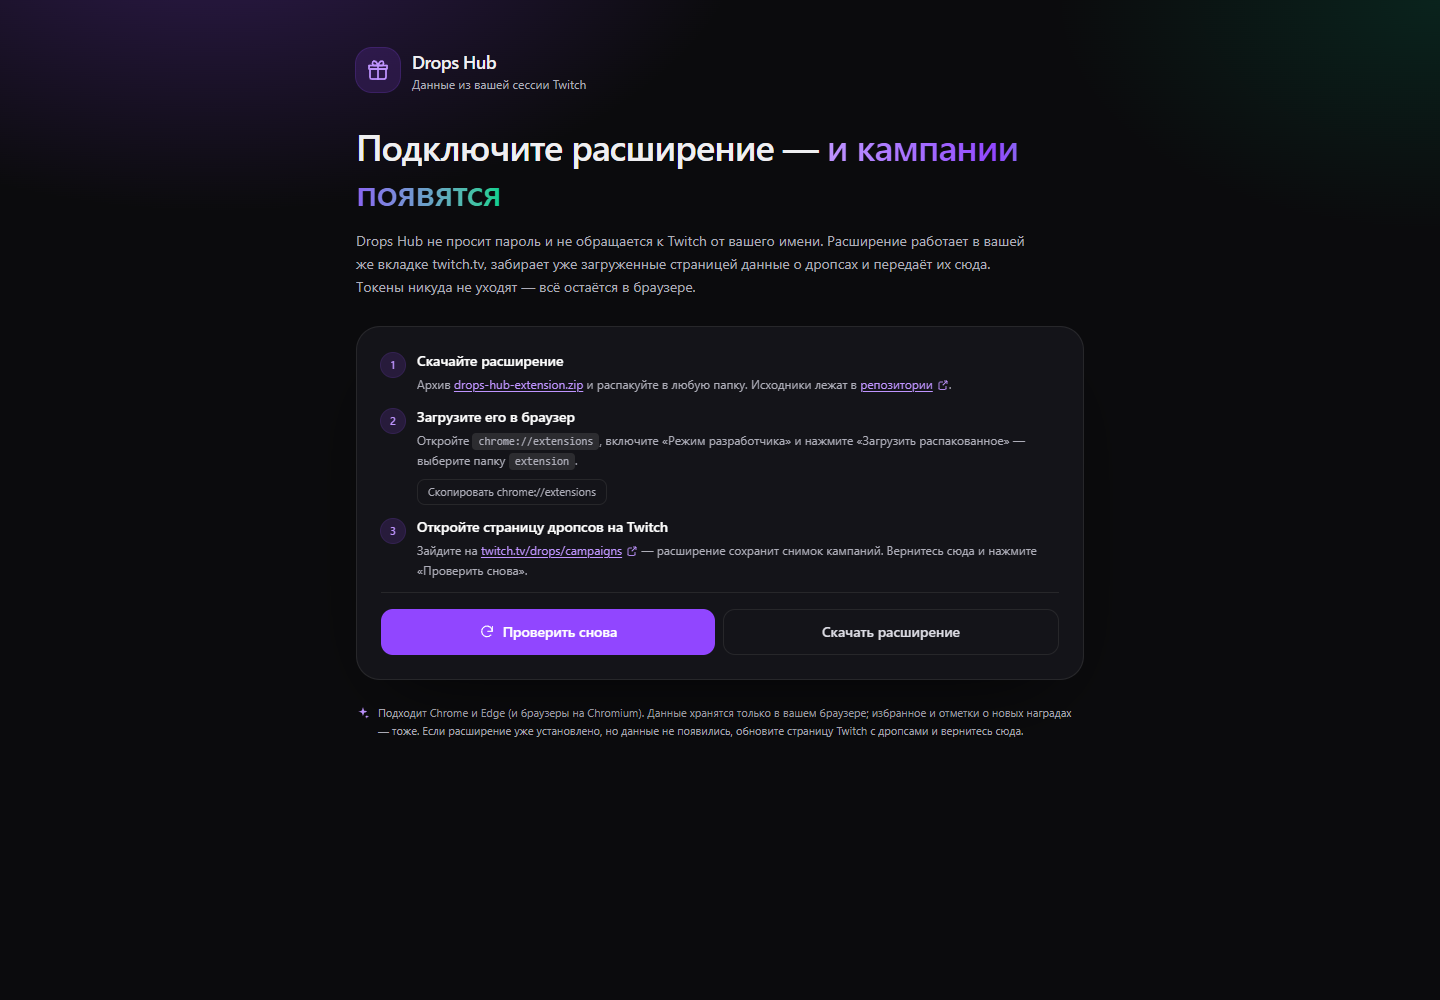
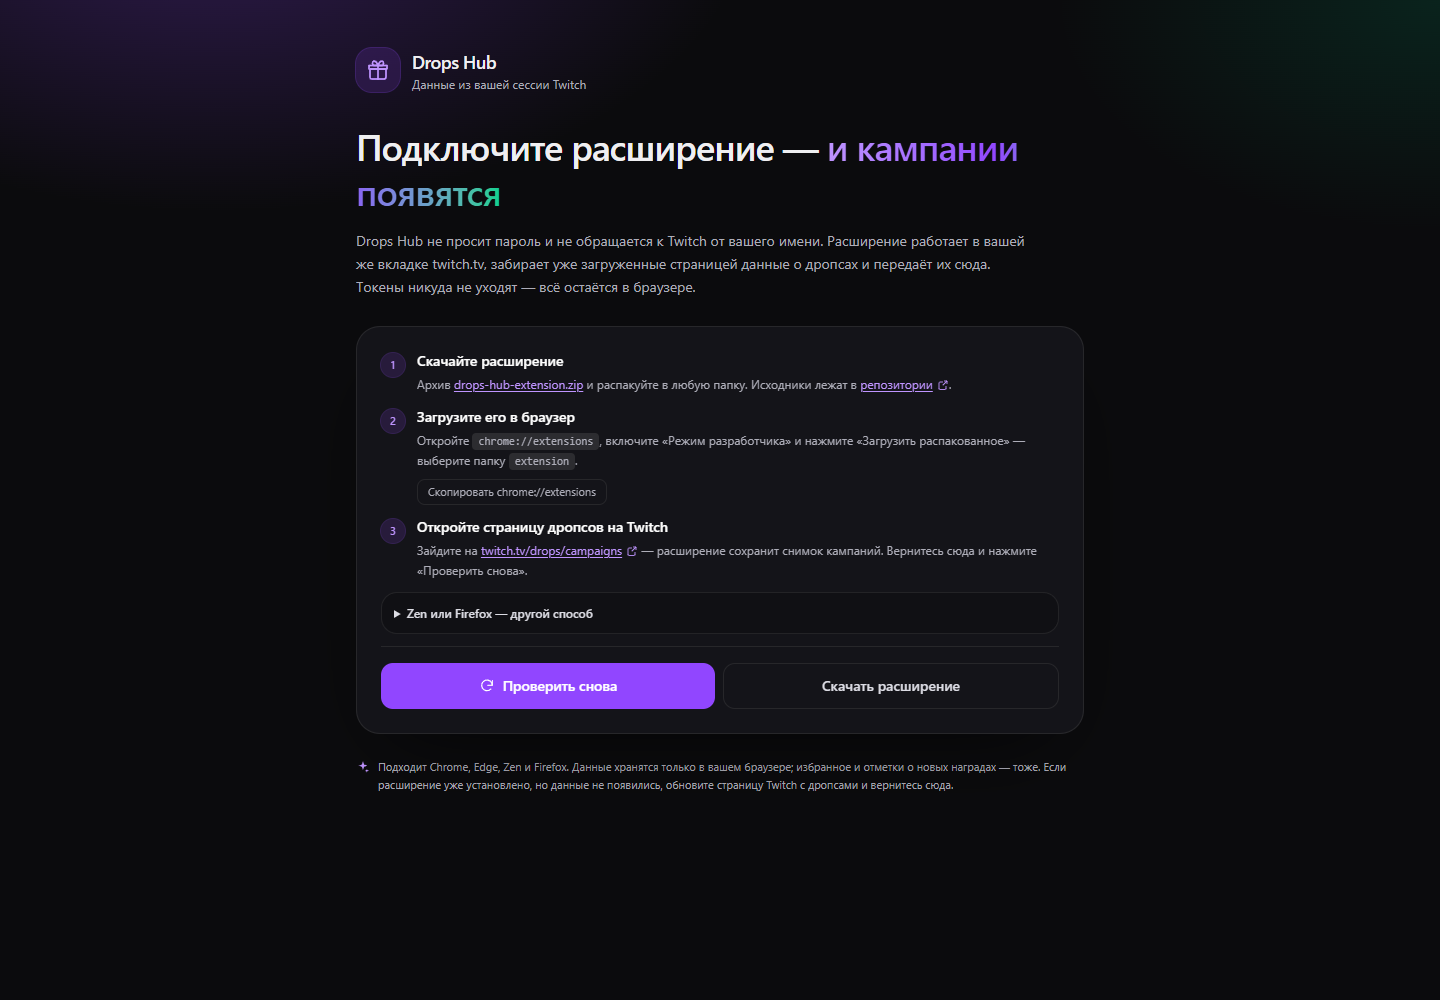
feat: Firefox and Zen support for the extension
- cross-browser storage API in the bridge scripts
- gecko manifest settings and a separate Firefox archive
- packaging script that builds both zips, onboarding and docs updated

Changed region(s): [[0.25, 0.589, 0.75, 0.806], [0.5625, 0.62, 0.6562, 0.651]]

diff --git a/src/components/Onboarding.tsx b/src/components/Onboarding.tsx
@@ -132,6 +132,42 @@ export default function Onboarding({ onRetry }: { onRetry: () => void }) {
             </div>
           ))}
 
+          <details className="rounded-2xl border border-line bg-ink/40 p-3">
+            <summary className="cursor-pointer select-none text-xs font-medium text-[#dcdce4]">
+              Zen или Firefox — другой способ
+            </summary>
+            <ol className="mt-3 space-y-2 text-[12px] leading-relaxed text-muted">
+              <li>
+                <span className="text-[#dcdce4]">1.</span> Скачайте{" "}
+                <a
+                  href="/drops-hub-extension-firefox.zip"
+                  className="text-accent-2 underline underline-offset-2"
+                >
+                  drops-hub-extension-firefox.zip
+                </a>{" "}
+                и распакуйте.
+              </li>
+              <li>
+                <span className="text-[#dcdce4]">2.</span> Откройте{" "}
+                <code className="rounded bg-white/10 px-1.5 py-0.5 text-[11px]">
+                  about:debugging#/runtime/this-firefox
+                </code>
+                , нажмите «Загрузить временное дополнение» и выберите{" "}
+                <code className="rounded bg-white/10 px-1.5 py-0.5 text-[11px]">manifest.json</code>{" "}
+                из распакованной папки.
+              </li>
+              <li>
+                <span className="text-[#dcdce4]">3.</span> Откройте twitch.tv/drops/campaigns и
+                вернитесь сюда.
+              </li>
+            </ol>
+            <p className="mt-2 text-[11px] leading-relaxed text-muted">
+              Временное дополнение пропадает после перезапуска браузера — загрузите его снова или
+              подпишите архив на addons.mozilla.org («Sign for self-distribution»), чтобы установить
+              навсегда.
+            </p>
+          </details>
+
           <div className="flex flex-col gap-2 border-t border-line pt-4 sm:flex-row">
             <button
               type="button"
@@ -153,8 +189,8 @@ export default function Onboarding({ onRetry }: { onRetry: () => void }) {
         <div className="mt-6 flex items-start gap-2 text-[11px] leading-relaxed text-muted">
           <SparkIcon className="mt-0.5 h-3.5 w-3.5 shrink-0 text-accent-2" />
           <p>
-            Подходит Chrome и Edge (и браузеры на Chromium). Данные хранятся только в вашем браузере;
-            избранное и отметки о новых наградах — тоже. Если расширение уже установлено, но данные не
+            Подходит Chrome, Edge, Zen и Firefox. Данные хранятся только в вашем браузере; избранное
+            и отметки о новых наградах — тоже. Если расширение уже установлено, но данные не
             появились, обновите страницу Twitch с дропсами и вернитесь сюда.
           </p>
         </div>

diff --git a/extension/bridge-dashboard.js b/extension/bridge-dashboard.js
@@ -1,29 +1,32 @@
 /**
  * Runs on the Drops Hub dashboard. The app asks for the latest snapshot with a
  * postMessage request, and the extension answers with whatever is stored locally.
+ *
+ * Works in Chromium (chrome.*) and Firefox / Zen (browser.*): both expose a
+ * promise-based storage.local in MV3.
  */
 (() => {
   "use strict";
 
+  const api = typeof browser !== "undefined" ? browser : chrome;
   const SOURCE = "drops-hub-extension";
   const REQUEST = "drops-hub-app";
   const KEY_SNAPSHOT = "dropshub:snapshot";
   const KEY_CAPTURED_AT = "dropshub:capturedAt";
 
-  function send() {
+  async function send() {
     try {
-      chrome.storage.local.get([KEY_SNAPSHOT, KEY_CAPTURED_AT], (data) => {
-        const snapshot = data && data[KEY_SNAPSHOT];
-        if (!snapshot) return;
-        window.postMessage(
-          {
-            source: SOURCE,
-            snapshot,
-            capturedAt: data[KEY_CAPTURED_AT] || null,
-          },
-          "*",
-        );
-      });
+      const data = await api.storage.local.get([KEY_SNAPSHOT, KEY_CAPTURED_AT]);
+      const snapshot = data && data[KEY_SNAPSHOT];
+      if (!snapshot) return;
+      window.postMessage(
+        {
+          source: SOURCE,
+          snapshot,
+          capturedAt: data[KEY_CAPTURED_AT] || null,
+        },
+        "*",
+      );
     } catch (error) {
       /* ignore storage failures */
     }
@@ -33,9 +36,9 @@
     if (event.source !== window) return;
     const data = event.data;
     if (!data || data.source !== REQUEST) return;
-    send();
+    void send();
   });
 
-  send();
-  window.addEventListener("load", send, { once: true });
+  void send();
+  window.addEventListener("load", () => void send(), { once: true });
 })();

diff --git a/extension/bridge-twitch.js b/extension/bridge-twitch.js
@@ -1,10 +1,14 @@
 /**
  * Runs in the extension context on twitch.tv. Receives the payload captured from
  * the page and stores the latest snapshot locally.
+ *
+ * Works in Chromium (chrome.*) and Firefox / Zen (browser.*): both expose a
+ * promise-based storage.local in MV3.
  */
 (() => {
   "use strict";
 
+  const api = typeof browser !== "undefined" ? browser : chrome;
   const SOURCE = "drops-hub-capture";
   const KEY_SNAPSHOT = "dropshub:snapshot";
   const KEY_CAPTURED_AT = "dropshub:capturedAt";
@@ -15,7 +19,7 @@
     if (!data || data.source !== SOURCE || !data.payload) return;
 
     try {
-      chrome.storage.local.set({
+      api.storage.local.set({
         [KEY_SNAPSHOT]: data.payload,
         [KEY_CAPTURED_AT]: data.capturedAt || Date.now(),
       });

diff --git a/README.md b/README.md
@@ -33,6 +33,8 @@ requests are forged, and no viewing time is simulated.
 
 ## Install
 
+### Chrome, Edge, and other Chromium browsers
+
 1. Open the deployed app (for example <https://twitch-drops-hub.vercel.app>) — it will offer the
    extension archive.
 2. Download `drops-hub-extension.zip` and unpack it somewhere permanent.
@@ -41,8 +43,20 @@ requests are forged, and no viewing time is simulated.
 4. Open <https://www.twitch.tv/drops/campaigns> — the extension captures the campaign snapshot.
 5. Return to the app and press **Проверить снова**.
 
-Works in Chrome, Edge and other Chromium browsers. The extension source lives in [`extension/`](extension)
-with its own [README](extension/README.md).
+### Zen browser and Firefox
+
+Zen is built on Firefox, so it needs the Firefox build of the extension:
+
+1. Download `drops-hub-extension-firefox.zip` from the app and unpack it.
+2. Open `about:debugging#/runtime/this-firefox`, click **Load Temporary Add-on** and select
+   `manifest.json` inside the unpacked folder.
+3. Open <https://www.twitch.tv/drops/campaigns>, then return to the app and press **Проверить снова**.
+
+Temporary add-ons disappear when the browser restarts. To keep it permanently, submit the zip to
+[addons.mozilla.org](https://addons.mozilla.org/developers/) as a *self-distributed* add-on — Mozilla
+signs it and gives you an `.xpi` you can install for good.
+
+The extension source lives in [`extension/`](extension) with its own [README](extension/README.md).
 
 ## Local development
 
@@ -75,11 +89,11 @@ There are no environment variables to configure.
 3. Open the assigned domain. The page is fully static, so no settings are required.
 
 If you deploy under a different domain, add it to `host_permissions` and to the dashboard
-`content_scripts.matches` in [`extension/manifest.json`](extension/manifest.json), then rebuild
-`public/drops-hub-extension.zip`:
+`content_scripts.matches` in [`extension/manifest.json`](extension/manifest.json), then rebuild both
+archives:
 
 ```powershell
-Compress-Archive -Path extension -DestinationPath public/drops-hub-extension.zip -Force
+powershell -ExecutionPolicy Bypass -File scripts/package-extension.ps1
 ```
 
 ## Project structure
@@ -101,12 +115,15 @@ src/
     mock.ts                   — demo data for DROPS_MOCK=1
     types.ts                  — shared types
 extension/
-  manifest.json               — MV3 manifest
+  manifest.json               — MV3 manifest (Chromium + Firefox/Zen)
   capture.js                  — reads the page's own GraphQL response (MAIN world)
-  bridge-twitch.js            — stores the snapshot in chrome.storage.local
+  bridge-twitch.js            — stores the snapshot in storage.local
   bridge-dashboard.js         — answers snapshot requests on the dashboard domain
 public/
-  drops-hub-extension.zip     — packaged extension served by the site
+  drops-hub-extension.zip     — Chromium build served by the site
+  drops-hub-extension-firefox.zip — Firefox / Zen build served by the site
+scripts/
+  package-extension.ps1       — builds both archives from extension/
 ```
 
 ## How it works
@@ -122,8 +139,9 @@ public/
 
 ## Known limitations
 
-- **Chromium desktop only** — the extension is not available for mobile browsers, so the mobile
-  version of the app is read-only and shows the last synced snapshot only if that device has one.
+- **Desktop browsers only** — Chromium (Chrome, Edge, Brave, …) loads the unpacked folder, Zen and
+  Firefox load the temporary add-on. Mobile browsers have no extension support, so the app there
+  shows only a snapshot previously synced in that browser.
 - **Snapshot freshness** — data updates when you open the Twitch Drops page; the app cannot poll
   Twitch on its own.
 - **Claiming happens on Twitch** — the "Забрать" button opens the campaign on twitch.tv; the app

diff --git a/extension/README.md b/extension/README.md
@@ -17,7 +17,9 @@ from **your own** twitch.tv tab.
 - It does not fake viewing time: no automation, no heartbeats, nothing that could get an account
   banned.
 
-## Install (developer mode)
+## Install
+
+### Chrome / Edge (Chromium)
 
 1. Download `drops-hub-extension.zip` from the deployed site (or use this folder as is).
 2. Unpack it somewhere permanent.
@@ -26,11 +28,32 @@ from **your own** twitch.tv tab.
 5. Open <https://www.twitch.tv/drops/campaigns> — the snapshot is captured automatically.
 6. Return to the Drops Hub tab and press **Проверить снова** (or reload the page).
 
-The zip shipped on the site is a snapshot of this folder; after changing the extension, regenerate it:
+### Zen / Firefox
+
+1. Download `drops-hub-extension-firefox.zip` and unpack it.
+2. Open `about:debugging#/runtime/this-firefox`, click **Load Temporary Add-on**.
+3. Select `manifest.json` from the unpacked folder.
+4. Open <https://www.twitch.tv/drops/campaigns>, then return to the dashboard.
+
+Temporary add-ons are removed on browser restart. For a permanent install, submit the archive to
+[addons.mozilla.org](https://addons.mozilla.org/developers/) as a self-distributed add-on — Mozilla
+signs it and returns an `.xpi`.
+
+The Firefox build only differs by the `browser_specific_settings.gecko` key in `manifest.json`, which
+Chromium builds drop.
+
+## Packaging
+
+Both archives are generated from this folder:
 
 ```powershell
-Compress-Archive -Path extension -DestinationPath public/drops-hub-extension.zip -Force
+powershell -ExecutionPolicy Bypass -File scripts/package-extension.ps1
 ```
+
+| Output | Notes |
+| --- | --- |
+| `public/drops-hub-extension.zip` | Chromium build, `browser_specific_settings` removed. |
+| `public/drops-hub-extension-firefox.zip` | Firefox / Zen build, manifest as is. |
 
 ## Files
 
